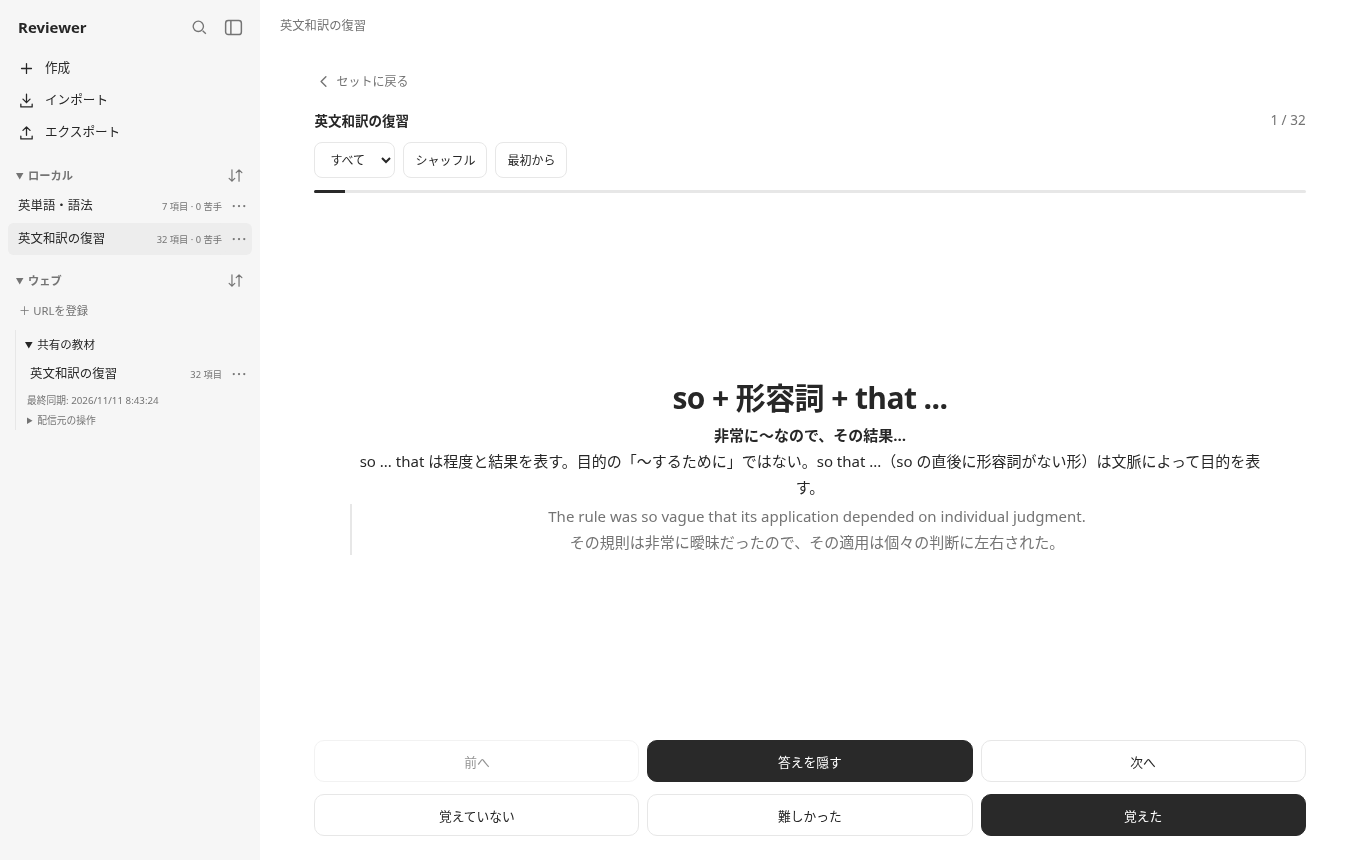
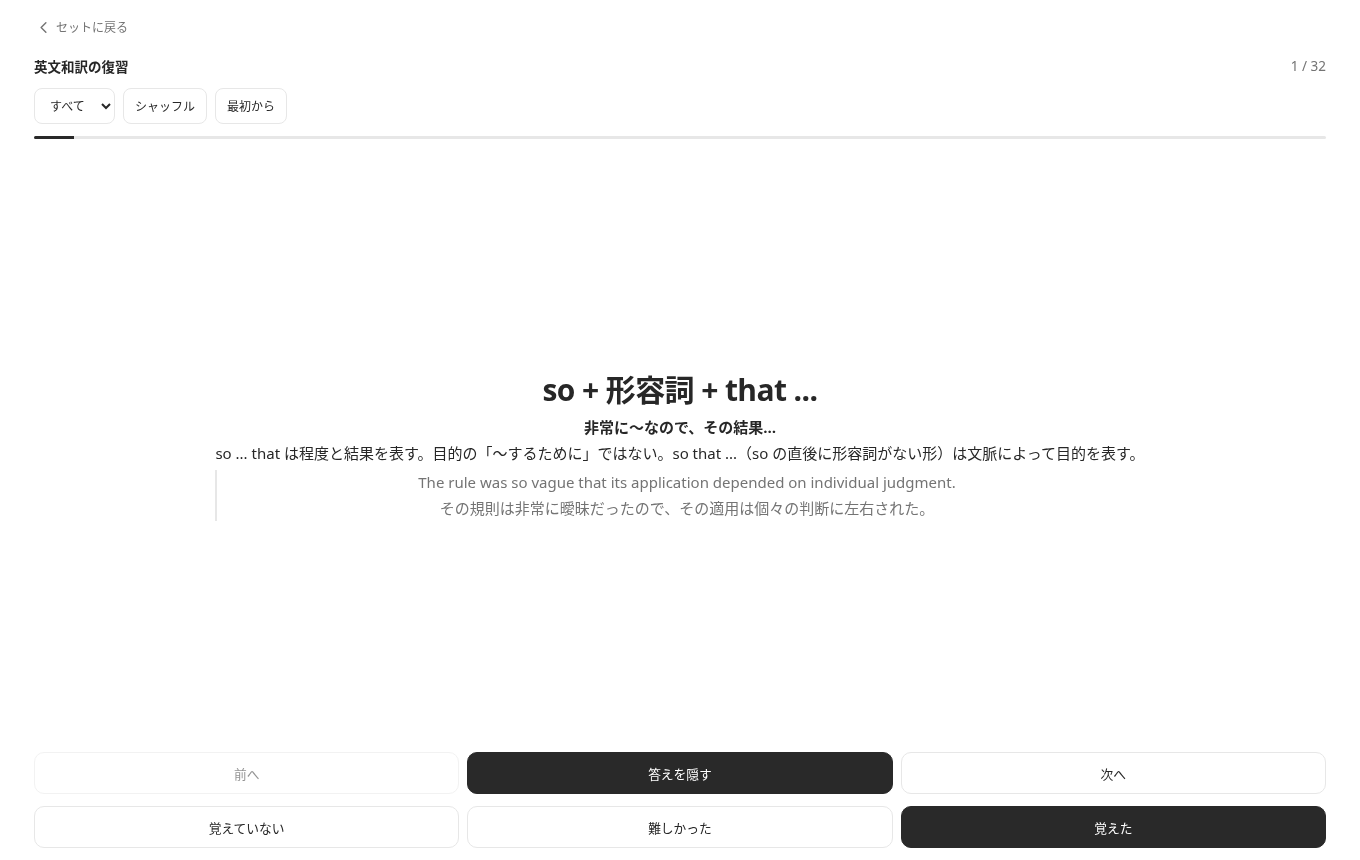
Document full-viewport study and update screenshots

diff --git a/README.md b/README.md
@@ -26,6 +26,8 @@
 - **ローカルとウェブの教材** — 自分で作成したりJSONを読み込んだり、公開URLの教材を同期したり。
 - **整理しやすいサイドバー** — 検索、並び替え、セクションの折りたたみ。閉じれば学習画面を広く使える。
 
+クイズ・単語カードはサイドバーとヘッダーを隠し、ブラウザの表示領域全体で学習できます。「セットに戻る」またはEscキーで通常表示へ戻ります。
+
 PC・タブレット・スマートフォンに対応し、端末設定に合わせてライト／ダーク表示を切り替えます。アプリ本体は、外部ライブラリ不要の**単一HTML**です。
 
 <table>
